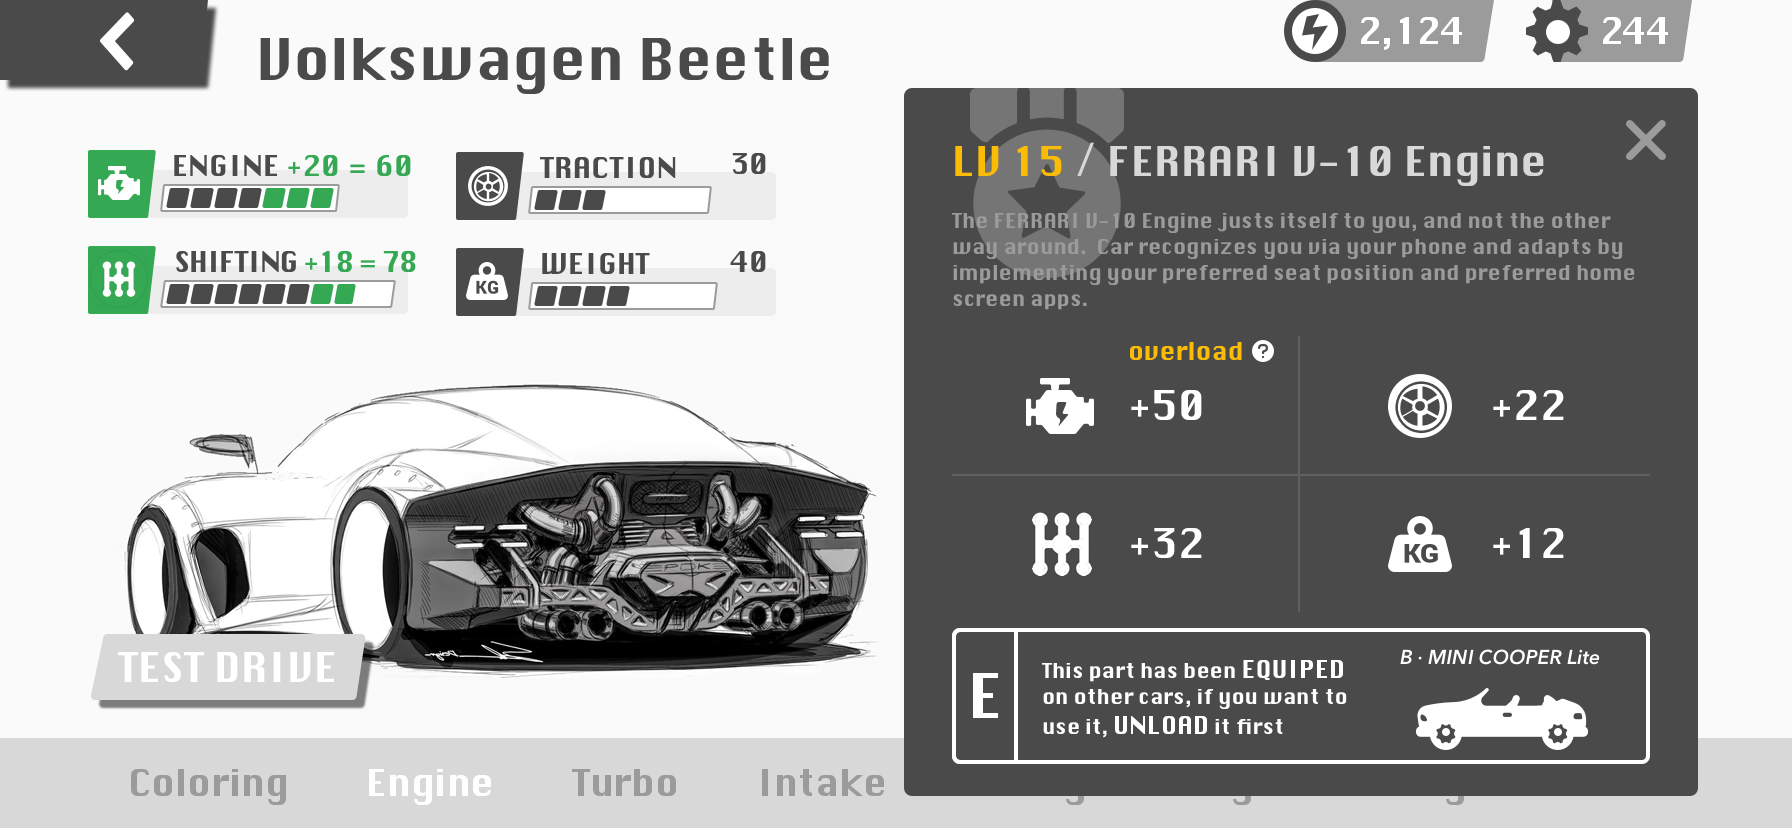
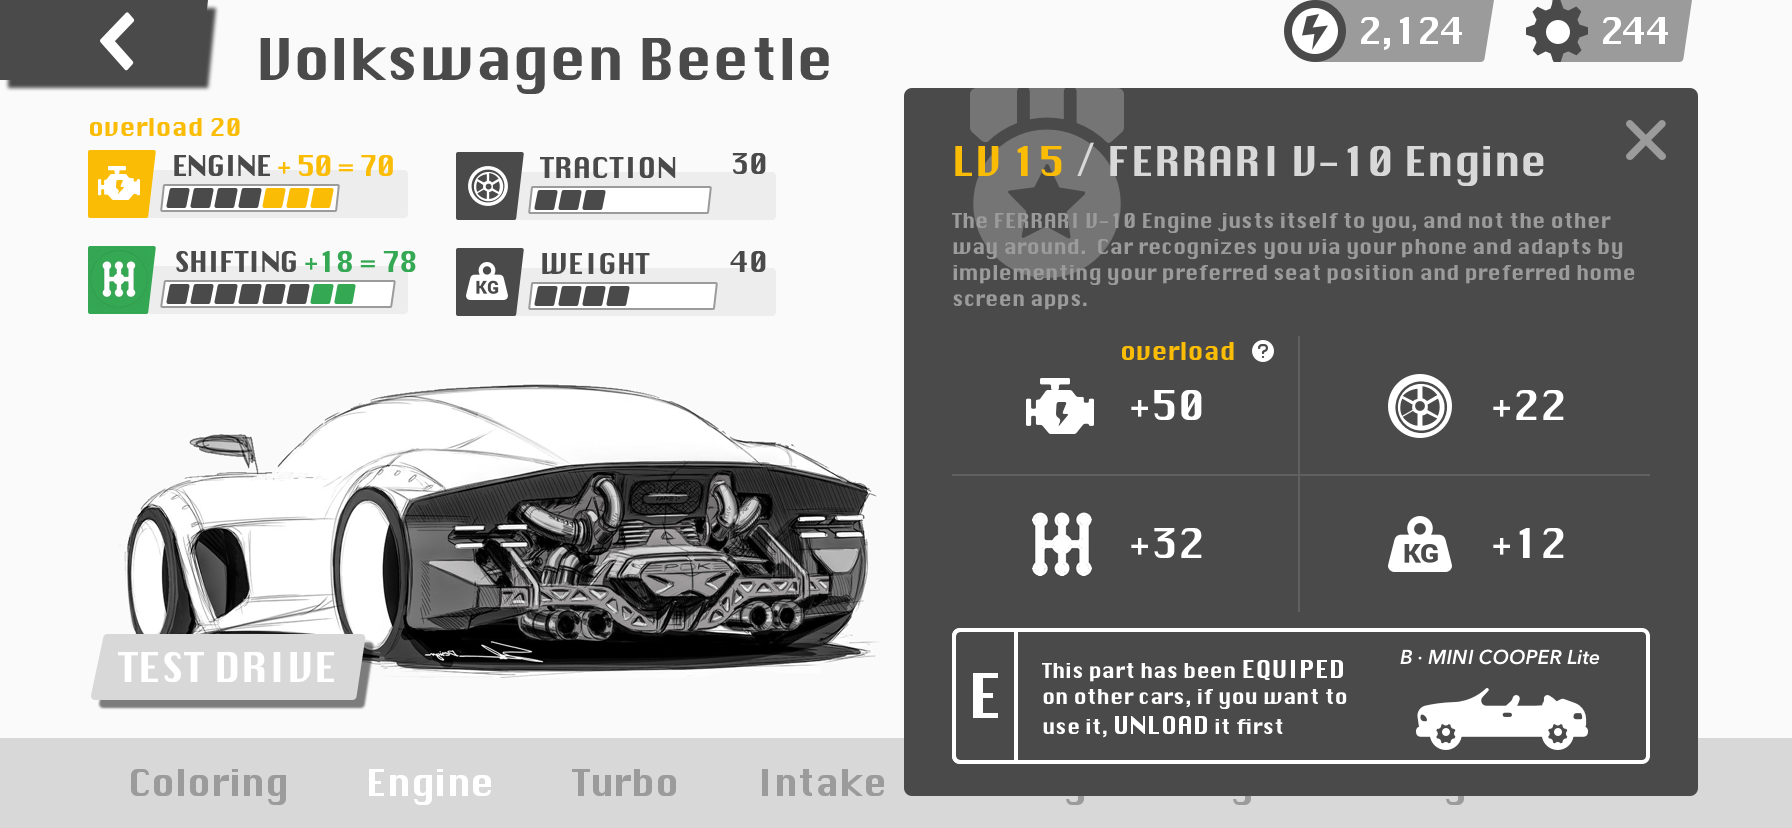
# 8.1

Changed region(s): [[0.0312, 0.1208, 0.25, 0.2717], [0.625, 0.3925, 0.6875, 0.4529]]

diff --git a/refit.html b/refit.html
@@ -35,7 +35,7 @@
         批改作业绝对不是个轻松的差事... 谢谢你看到这里。<br />
     </p>
     <p>
-        下面的内容是针对测试题的一些最基础构思，它们专为测试而设计，所以它们并未进行过足够“深刻”的调研和准备，仅仅凭借着一些往日的游戏感觉拼凑而成。由于时间限制，仍有一些设计细节和想法没有被照顾和体现，很期待有机会能与你进一步讨论 ：）
+        下面的内容是针对测试题的一些最基础构思，它专为这次测试而设计，所以它们并未进行过足够“深刻”的调研和准备，仅仅凭借着一些往日的游戏感觉拼凑而成。由于时间限制，仍有一些设计细节和想法没有被照顾和体现，很期待有机会能与你进一步讨论 ：）
     </p>
 
     <p>
@@ -111,7 +111,7 @@
         <img src="gif/refit/switch_class.gif" alt="Garage" />
     </p>
     <p style="color: grey">
-        * 暂未设计更多的排序方式，是因为当前车库中较为“密集”的“车辆排列”以及更多的科学考量，咱们有机会再续；
+        * 暂未设计更多的排序方式，是因为当前车库中较为“密集”的“车辆排列”以及更多的科学考量，咱们有机会再续。
     </p>
     <a name="anchor_3"></a>
     <hr />
@@ -126,26 +126,29 @@
     <p>
         <img src="img/refit/Introduction.png" alt="Introduction" />
     </p>
+    
     <p style="padding-top: 2em;">
-        在「装配页」底部，可切换部件类型。
-    </p>
-
-    <p>
-        <b>黑色 E：</b>当前车辆已装备该部件（滚动查看其他部件时，该部件位置置顶）；<br />
-        <b>灰色 E：</b>部件已经被其他车辆装备；<br />
-        <b>黄色 N：</b>新部件。<br />
-    </p>
-
-    <p>
         由于“新部件”的被关注度可能会高于其他部件，所以从上一页面进入本页面时，应直接跳转到能看到（黄色N）部件的分类和位置。
     </p>
 
     <p>
-        图中，玩家获得了一个新的发动机，所以打开「装配页」后，直接跳转到了发动机分类中“新部件”的位置
+        例如，玩家获得了一个新的发动机，所以打开「装配页」后，直接跳转到了发动机分类中“新部件”的位置（如下图所示）。
+    </p>
+
+    <p>
+        其中，部件等级旁边的：<br />
+        <b>黑色 E 标志：</b>表示该部件已经被当前的车辆装备（滚动查看部件时，该部件置顶）；<br />
+        <b>灰色 E 标志：</b>表示部件已经被其他车辆装备；<br />
+        <b>黄色 N 标志：</b>表示新部件。<br />
     </p>
 
     <p>
         <img src="img/refit/Refit.png" alt="Refit" />
+    </p>
+
+    <p style="padding-top: 2em;">
+        在「装配页」底部，可切换部件类型。<br />
+        在「装配页」右侧，可通过上下滚动查看库存部件。
     </p>
 
     <p>
@@ -219,7 +222,7 @@
     <p style="padding-top: 2em;">
         如果“部件”已被备其他车辆的装备，则需要先将其卸下，再执行“装备”操作。<br />
         <b>1. </b>针对满级装备进行“装饰强化”，有助于区别于未满级装备；<br />
-        <b>2. </b>当前的“部件”出现了属性“OVERLOAD（溢出）”。
+        <b>2. </b>如果这个“15级的部件”用在这辆车上，会出现属性溢出“OVERLOAD”。
     </p>
     <p>
         
